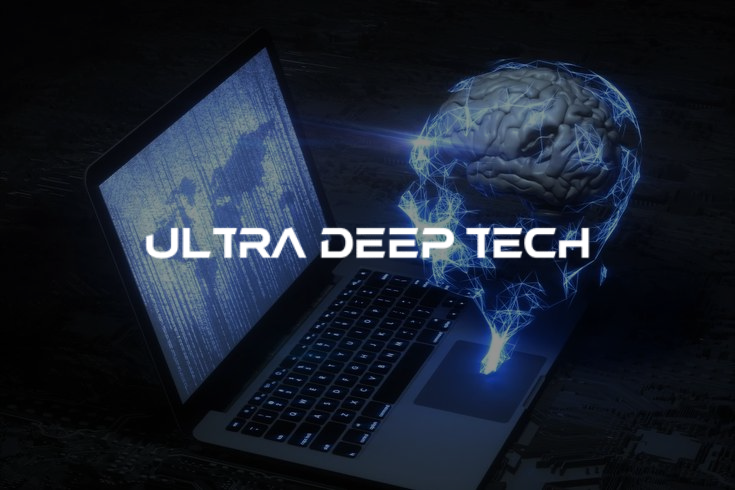
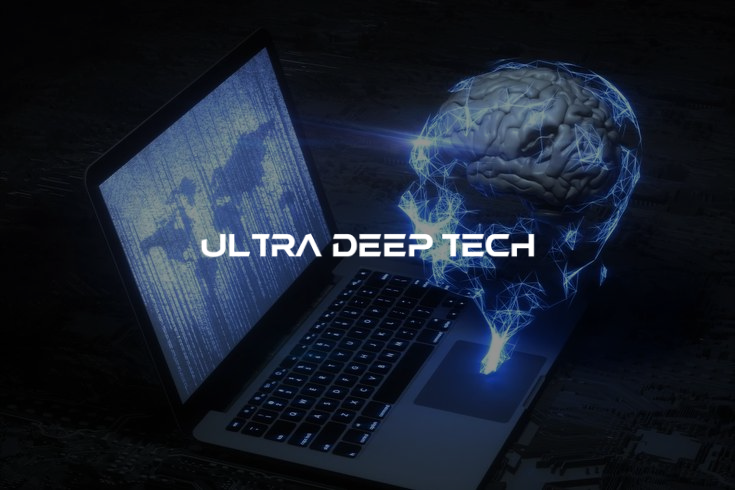
todo

Changed region(s): [[0.1796, 0.4592, 0.8082, 0.551]]

diff --git a/index.html b/index.html
@@ -110,7 +110,7 @@
           <div class="col-xl-6">
             <h1 data-aos="fade-up " id="typewriter-title"></h1>
             <blockquote data-aos="fade-up" data-aos-delay="100">
-              <p>Incorporating intelligent automated solutions to help new businesses be more valuable.</p>
+              <p id="typewriter-drescription">Incorporating intelligent automated solutions to help new businesses be more valuable.</p>
             </blockquote>
             <div class="d-flex" data-aos="fade-up" data-aos-delay="200">
               <a href="#why-us" class="btn-get-started">Get Started</a>

diff --git a/assets/css/main.css b/assets/css/main.css
@@ -116,14 +116,14 @@ h6 {
 /* Estilos para pantallas medianas */
 @media (max-width: 768px) {
   #typewriter-title {
-      font-size: 2.5em;
+      font-size: 2em;
   }
 }
 
 /* Estilos para pantallas pequeñas */
 @media (max-width: 480px) {
   #typewriter-title {
-      font-size: 2em;
+      font-size: 1.5em;
   }
 }
 

diff --git a/assets/js/script.js b/assets/js/script.js
@@ -13,3 +13,5 @@ document.addEventListener("DOMContentLoaded", function() {
 
     typeWriter();
 });
+
+
